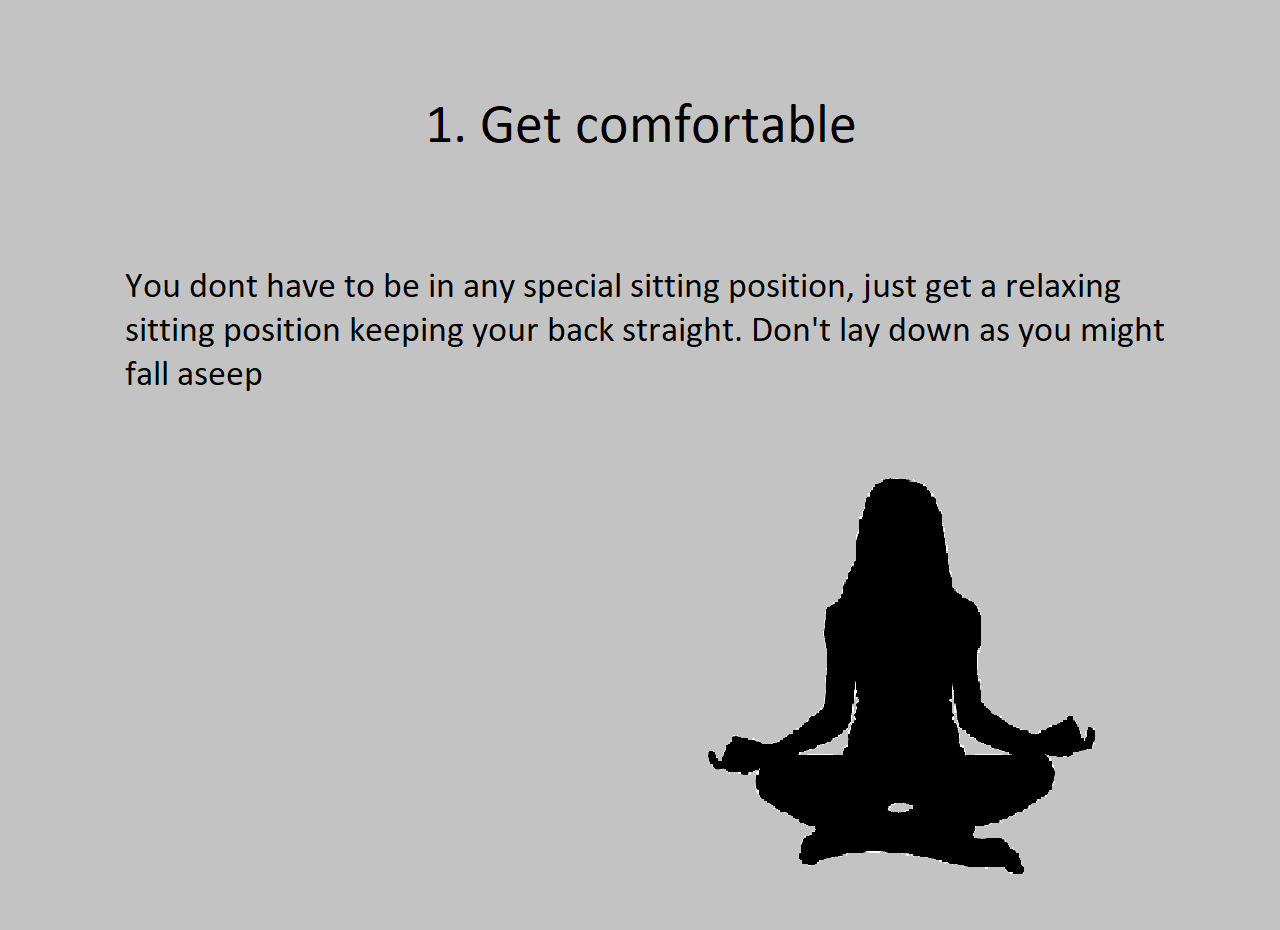
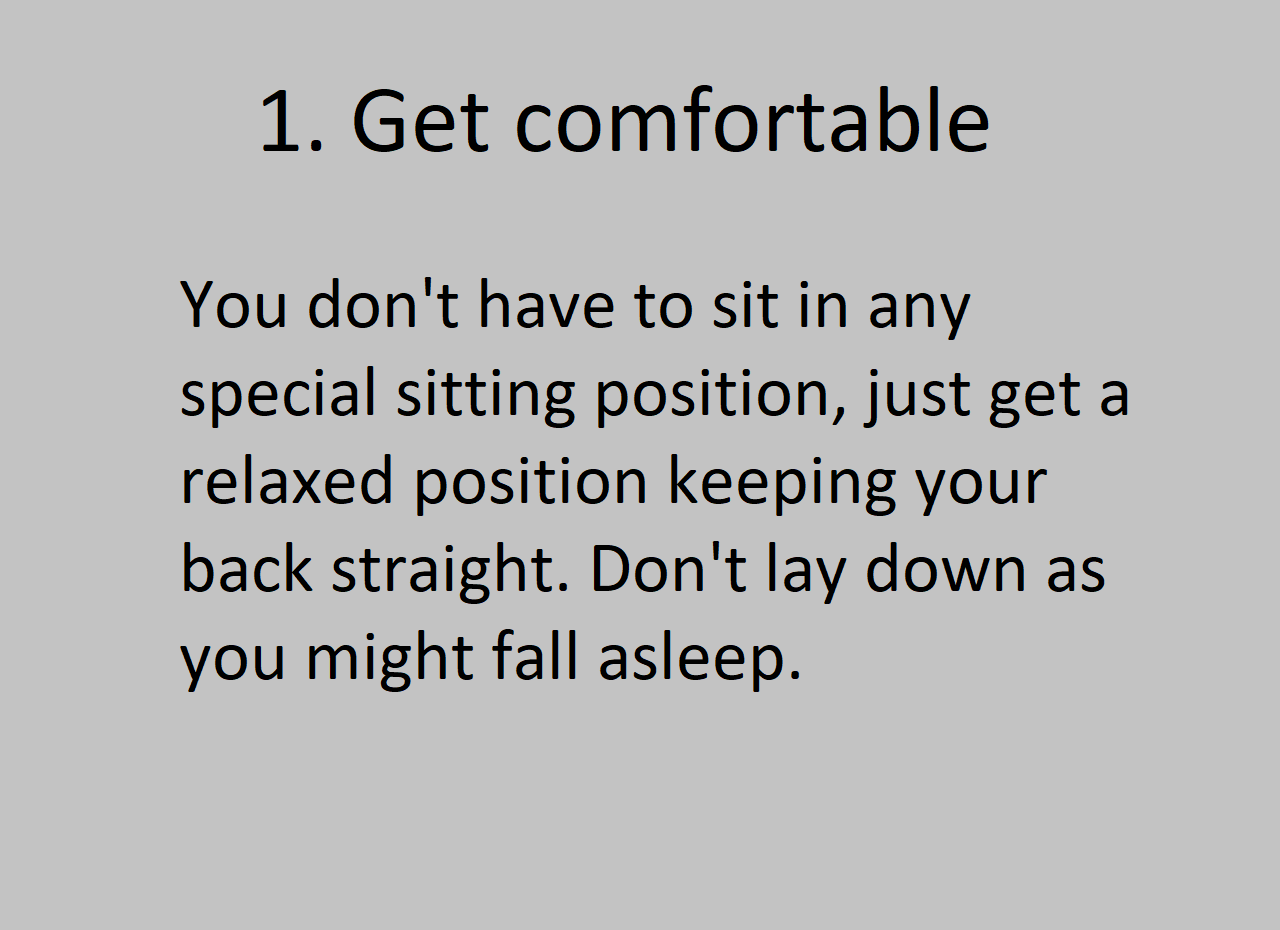
Javascript-tehtävä alulleen ja muutoksia Bootstrap-tehtävään

Changed region(s): [[0.125, 0.4989, 0.875, 0.9355], [0.0938, 0.2806, 0.9062, 0.4677], [0.1875, 0.0935, 0.7812, 0.1871]]

diff --git a/BootstrapTehtävä/pages/physical.html b/BootstrapTehtävä/pages/physical.html
@@ -16,7 +16,8 @@
     <title>Physical health</title>
 </head>
 <body>
-    <nav class="navbar navbar-expand-lg bg-dark navbar-dark py-3">
+    <!-- Navbar -->
+    <nav class="navbar navbar-expand-lg bg-dark navbar-dark py-3 fixed-top">
         <div class="container">
         <a href="../index.html" class="navbar-brand">Home</a>
 
@@ -51,14 +52,14 @@
         </div>
       </div>
       <div class="bg-secondary d-flex justify-content-center">
-        <p class="p-3 px-5 p m-4">Here I will tell you some important information considering sleep, diet and exercise. Just open the card you would like to read about</p>
+        <p class="p-3 px-5 p m-4">Here I will tell you some information on: how to start eating better, on sleep hygiene and how to improve it and how to start exercising. Just open the card you would like to read about.</p>
       
       </div>
 
       <!-- Accordion -->
-<section id="physical" class="p-5">
+<section id="physical" class="p-5 my-4">
   <div class="container">
-    <h2 class="text-center">Diet</h2>
+    <h2 class="text-center text-light">Learn:</h2>
     <div class="accordion accordion-flush" id="accordionFlushExample">
       <!-- Diet -->
       <div class="accordion-item">
@@ -103,7 +104,9 @@
             Think about why you're exercising. Want to look better in your partners eyes? Does your health need a fix? Or is the exercise your me-time, a moment to breathe? There are good motives and less good ones. The enthusiasm for exercise remains when the motivation is your own and personal. The partner's comment and the doctor's speech, on the other hand, will soon be forgotten.
             Your own motive becomes clearer when you think about what good exercise brings to your daily life. Friends, strength still after a day of work, or perhaps a longer surface? <br>
            <span>2. Find the joy in exercising</span>
-            Everyone knows how good they feel after a workout. Sometimes that feeling feels unattainable. It helps to have a smile on your lips already during exercise. There are countless ways to move around. The way to produce joy for oneself is found by trying and remembering the good moments of one's own life and what produced joy in those moments. Was it music, beautiful nature, maybe a good company? A good mood arises in a sport with similar elements as in the good situations in memories.
+            Everyone knows how good they feel after a workout. Sometimes that feeling feels unattainable. It helps to have a smile on your lips already during exercise. There are countless ways to move around. The way to produce joy for oneself is found by trying and remembering the good moments of one's own life and what produced joy in those moments. Was it music, beautiful nature, maybe a good company? A good mood arises in a sport with similar elements as in the good situations in memories. <br>
+            <span>3. Check your goals</span>
+            The goal is to encourage, as long as it is not too far away. If the bar is too high, the enthusiasm will surely stop. For one, the goal is to promise a gym once a week, for another to attend a running event. The latter already requires so much trick that the goal should be divided into intermediate goals. It is suitable to reward yourself with even new sportswear.
           </div>
         </div>
       </div>

diff --git a/JavaScriptTehtävä/Jotain.js b/JavaScriptTehtävä/Jotain.js
@@ -1,16 +1,20 @@
-// Let's create a HTTP request
-let xmlhttp = new XMLHttpRequest();
-xmlhttp.open("GET","https://yesno.wtf/api/",true);
-// Send request
-xmlhttp.send();
-
-// Let's create an event handler
-xmlhttp.onreadystatechange=function() {
-    if(xmlhttp.readyState === 4 && xmlhttp.status === 200)
-    {
-        let answerObject = JSON.parse(xmlhttp.response);
-        document.getElementById("answer").innerHTML= answerObject.answer;
-        document.getElementById("answer-image").setAttribute("src",answerObject.image);
-    }
+function getWeather() {
+    let xhttp = new XMLHttpRequest();
+    xhttp.onreadystatechange = function() {
+	 if (this.readyState == 4 && this.status == 200) {
+	    let weather = JSON.parse(this.response) 
+        // Access the result here
+	    let city = weather.location.name;
+        let tempature = weather.current.temp_c;
+        let tempatureFeels = weather.current.feelslike_c;
+        let weatherInfo = "In " + city + " there is " + tempature + " degree celcius and it feels like " + tempatureFeels + " degree celcius. "
+        document.getElementById("weatherInfo").innerHTML = weatherInfo
+	 }
+    };
+    xhttp.open("GET","http://api.weatherapi.com/v1/current.json?key=577191a56a1a41f2ab2152650211512&q=Oulu&aqi=no",true);
+    // Send request
+    xhttp.send();
 }
-  
+
+getWeather()
+

diff --git a/BootstrapTehtävä/pages/meditation.html b/BootstrapTehtävä/pages/meditation.html
@@ -58,21 +58,21 @@
     
     </div>
     <h1 class="bg-dark text-light p-2 d-flex justify-content-center">How to meditate</h1>
-      <div id="carouselExampleControls" class="carousel slide" data-bs-ride="carousel">
+      <div id="carouselExampleControls" class="carousel slide m-3" data-bs-ride="carousel">
         <div class="carousel-inner">
           <div class="carousel-item active">
             <div class="d-flex justify-content-center">
-              <img src="../images/Slide1.png" class="w-70 slide sm-flex-w-50" alt="img.png">
+              <img src="../images/Slide1.png" class="w-50" alt="img.png">
           </div>
           </div>
           <div class="carousel-item">
             <div class="d-flex justify-content-center">
-              <img src="../images/slide2.png" class="w-70 slide sm-flex w-100" alt="img.png">
+              <img src="../images/slide2.png" class="w-50 " alt="img.png">
           </div>
           </div>
           <div class="carousel-item">
             <div class="d-flex justify-content-center">
-              <img src="../images/bow-g11a8b1cfa_1280.png" class="w-50" alt="img.png">
+              <img src="../images/Slide3.png" class="w-50" alt="img.png">
           </div>
           </div>
         </div>

diff --git a/BootstrapTehtävä/css/meditation.css b/BootstrapTehtävä/css/meditation.css
@@ -1,6 +1,7 @@
 body{
     background-image: url(../images/system-g944de2b01_1920.jpg);
     font-family:'Trebuchet MS', 'Lucida Sans Unicode', 'Lucida Grande', 'Lucida Sans', Arial, sans-serif;
+    overflow-x:hidden;
 }
 
 li{
@@ -17,3 +18,23 @@ body::before{
     content:"";
     height: 70px;
 }
+
+.carousel-control-prev-icon, .carousel-control-next-icon {
+    height: 80px;
+    width: 80px;
+    background-color: rgba(255, 255, 255, 0.5);
+    border-radius: 50%;
+    border: 2px solid black;
+}
+
+@media screen and (max-width: 768px){
+
+    .carousel-control-prev-icon, .carousel-control-next-icon{
+
+    height: 40px;
+    width: 40px;
+    }
+
+    
+}
+    

diff --git a/BootstrapTehtävä/css/physical.css b/BootstrapTehtävä/css/physical.css
@@ -14,3 +14,14 @@ span{
     font-weight: bold;
 }
 
+.accordion-body{
+    background-color: whitesmoke;
+    font-family:Cambria, Cochin, Georgia, Times, 'Times New Roman', serif;
+    padding: 50px;
+    
+}
+body::before{
+    display: block;
+    content:"";
+    height: 70px;
+}

diff --git a/JavaScriptTehtävä/index.html b/JavaScriptTehtävä/index.html
@@ -14,7 +14,9 @@
     </header>
     <article>
         <div id="articleDiv">
-            <p id="answer">Jotain kontenttia</p>
+            <p id="weatherInfo"></p>
+            <button onclick="getWeather()">yee</button>
+            
         </div>
     </article>
     <footer>
